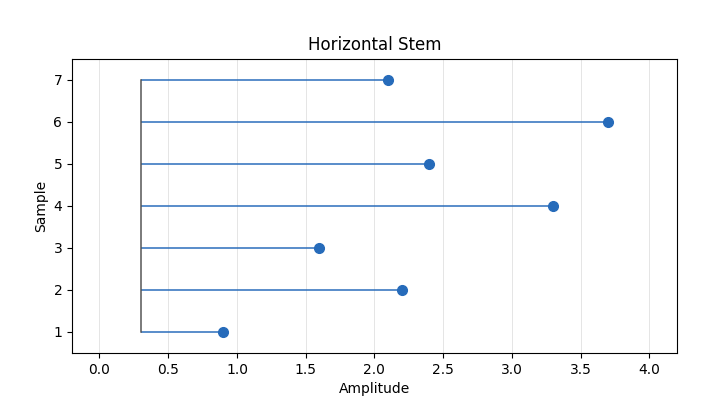
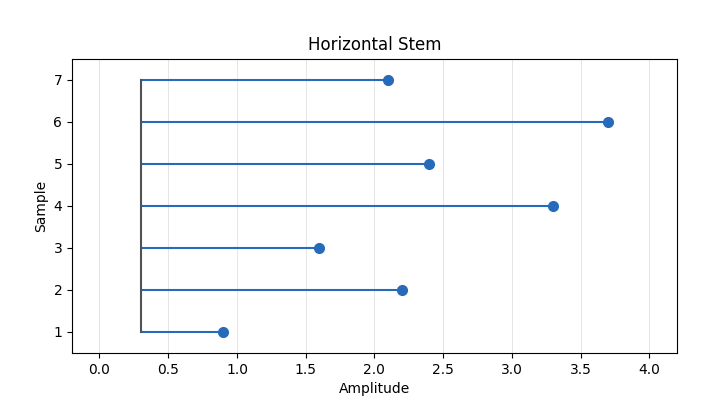
refactor: Update stem plot configurations to use default line widths for consistency with Go example

diff --git a/test/matplotlib_ref/plots/stem_horizontal.py b/test/matplotlib_ref/plots/stem_horizontal.py
@@ -37,9 +37,12 @@ def stem_horizontal(out_dir):
         bottom=0.3,
     )
     stem_color = (0.15, 0.42, 0.73)
-    plt.setp(stemlines, color=stem_color, linewidth=lw(1.5))
+    # Stem and baseline line widths are left at Matplotlib's default
+    # (rcParams["lines.linewidth"] = 1.5 points), matching the Go example which
+    # does not override StemOptions.LineWidth / BaselineWidth.
+    plt.setp(stemlines, color=stem_color)
     plt.setp(markerline, color=stem_color, markerfacecolor=stem_color, markeredgecolor=stem_color, markersize=7)
-    plt.setp(baseline, color=(0.32, 0.32, 0.32), linewidth=lw(1.5))
+    plt.setp(baseline, color=(0.32, 0.32, 0.32))
 
     save(fig, out_dir, "stem_horizontal")
 

diff --git a/test/parity/stem_horizontal/plot.py b/test/parity/stem_horizontal/plot.py
@@ -37,9 +37,12 @@ def stem_horizontal(out_dir):
         bottom=0.3,
     )
     stem_color = (0.15, 0.42, 0.73)
-    plt.setp(stemlines, color=stem_color, linewidth=lw(1.5))
+    # Stem and baseline line widths are left at Matplotlib's default
+    # (rcParams["lines.linewidth"] = 1.5 points), matching the Go example which
+    # does not override StemOptions.LineWidth / BaselineWidth.
+    plt.setp(stemlines, color=stem_color)
     plt.setp(markerline, color=stem_color, markerfacecolor=stem_color, markeredgecolor=stem_color, markersize=7)
-    plt.setp(baseline, color=(0.32, 0.32, 0.32), linewidth=lw(1.5))
+    plt.setp(baseline, color=(0.32, 0.32, 0.32))
 
     save(fig, out_dir, "stem_horizontal")
 

diff --git a/test/matplotlib_ref/plots/stem_plot.py b/test/matplotlib_ref/plots/stem_plot.py
@@ -30,9 +30,12 @@ def stem_plot(out_dir):
         bottom=0.3,
     )
     stem_color = (0.15, 0.42, 0.73)
-    plt.setp(stemlines, color=stem_color, linewidth=lw(1.5))
+    # Stem and baseline line widths are left at Matplotlib's default
+    # (rcParams["lines.linewidth"] = 1.5 points), matching the Go example which
+    # does not override StemOptions.LineWidth / BaselineWidth.
+    plt.setp(stemlines, color=stem_color)
     plt.setp(markerline, color=stem_color, markerfacecolor=stem_color, markeredgecolor=stem_color, markersize=7)
-    plt.setp(baseline, color=(0.32, 0.32, 0.32), linewidth=lw(1.5))
+    plt.setp(baseline, color=(0.32, 0.32, 0.32))
 
     save(fig, out_dir, "stem_plot")
 
